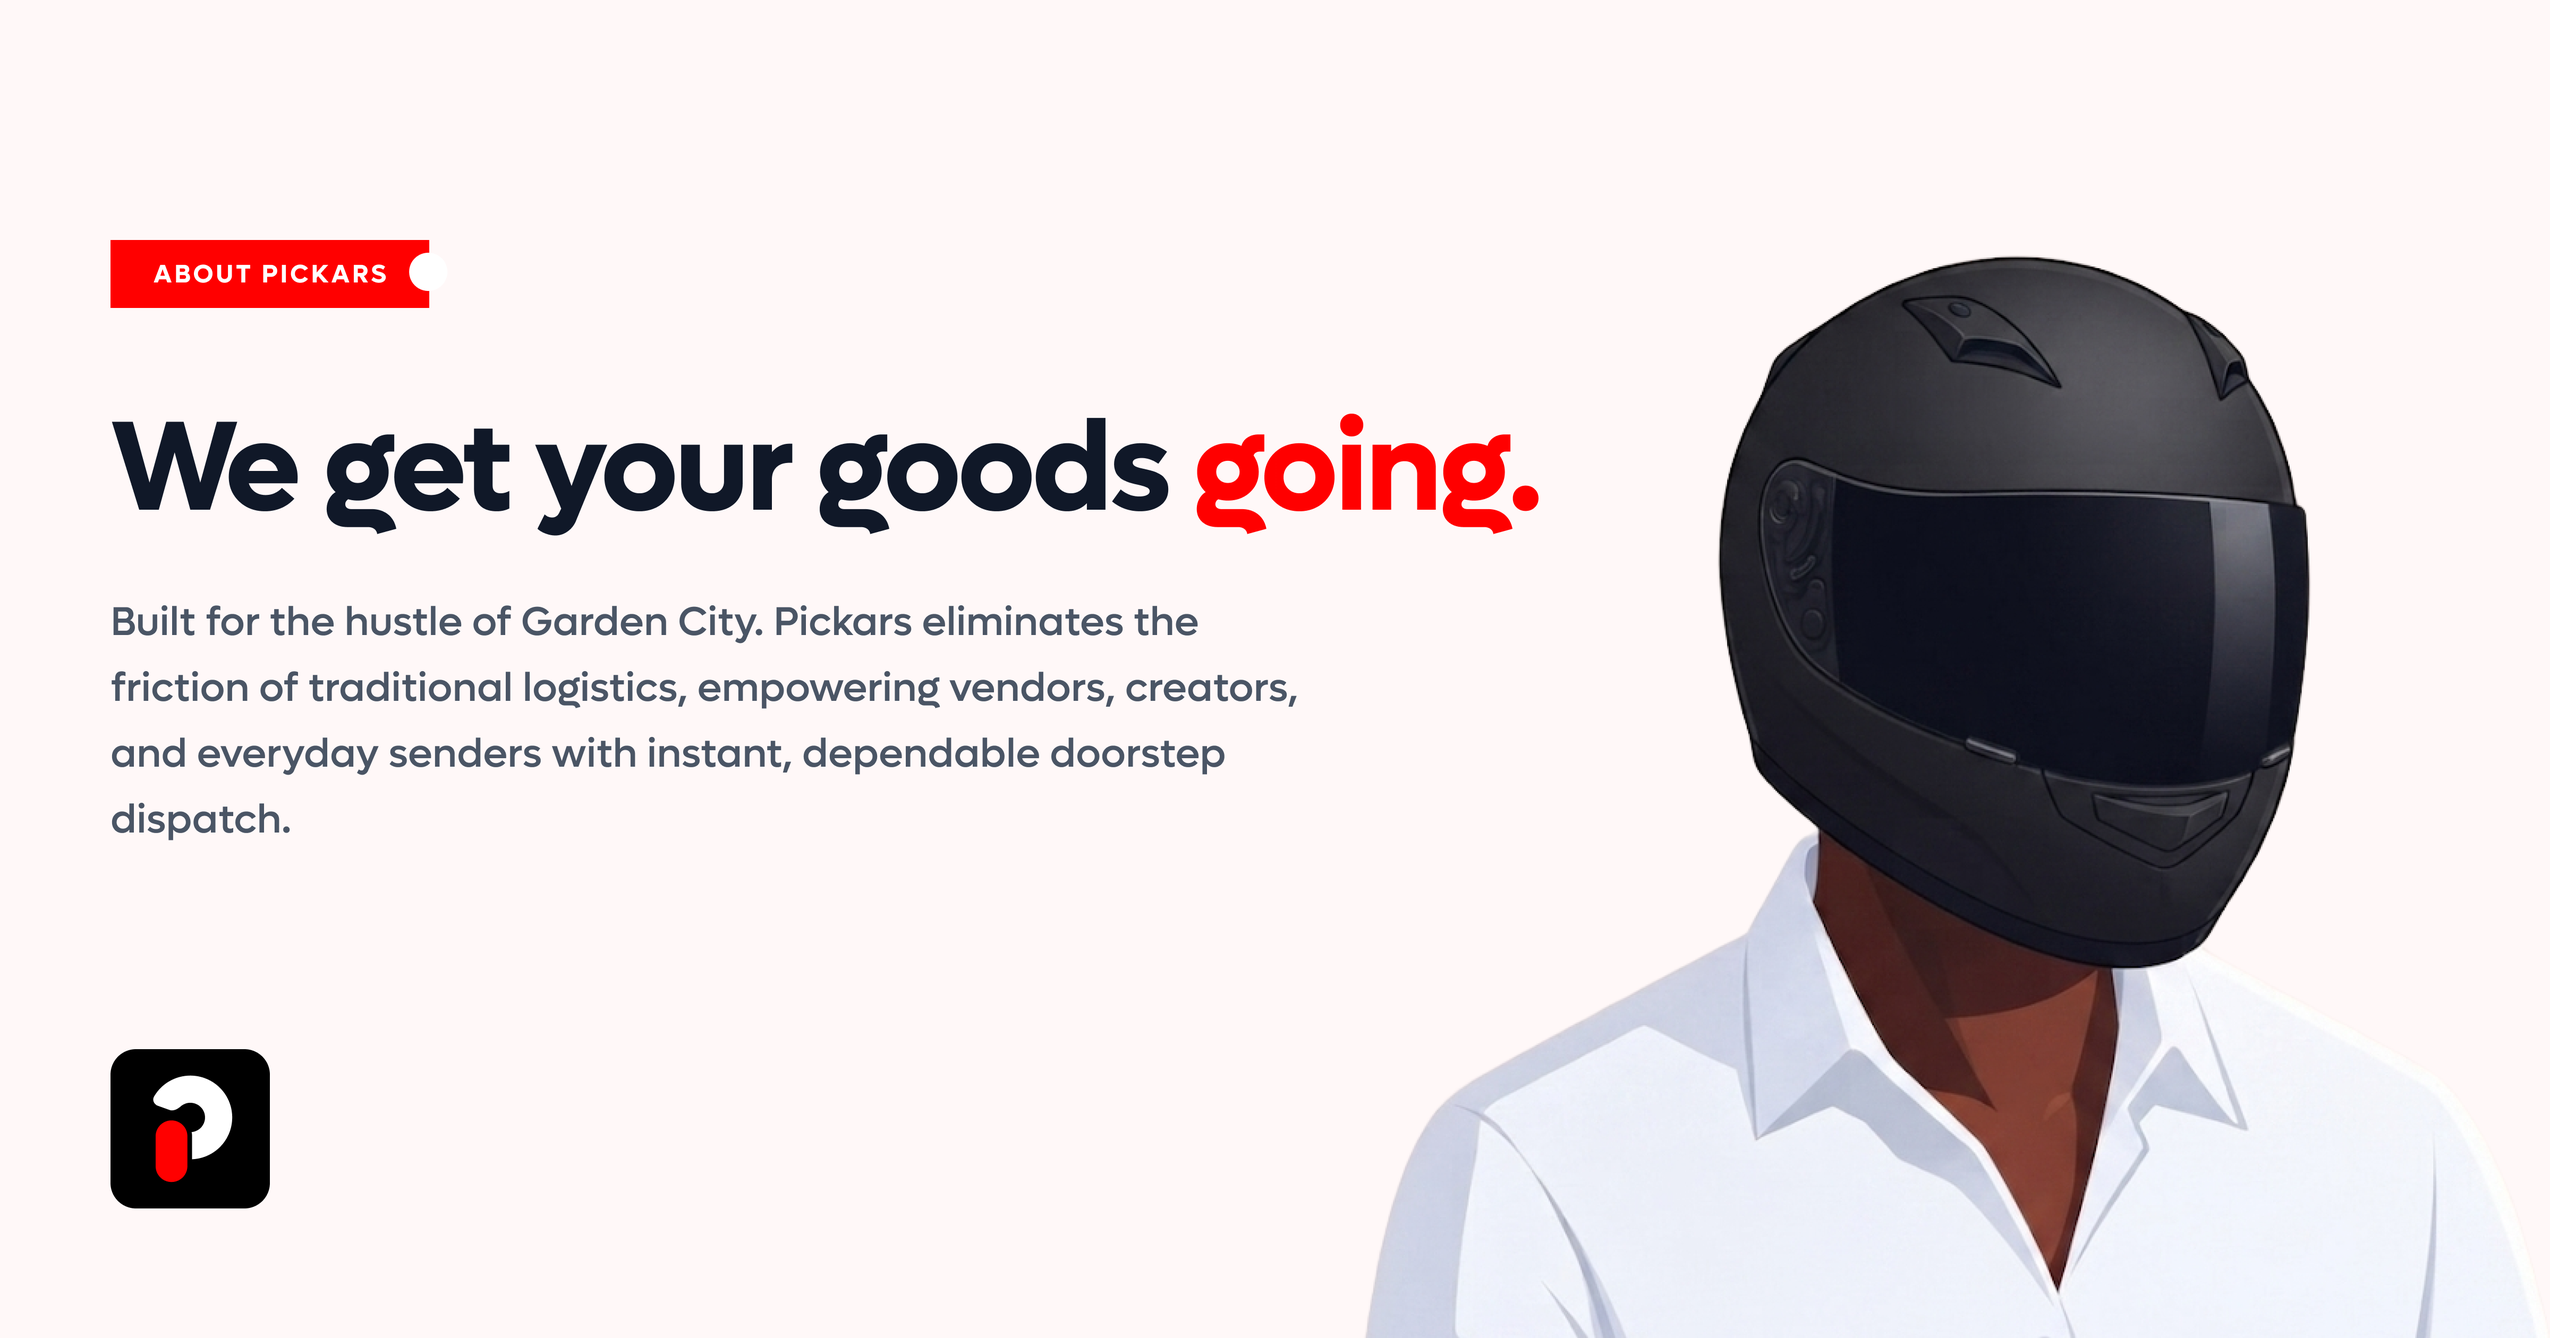
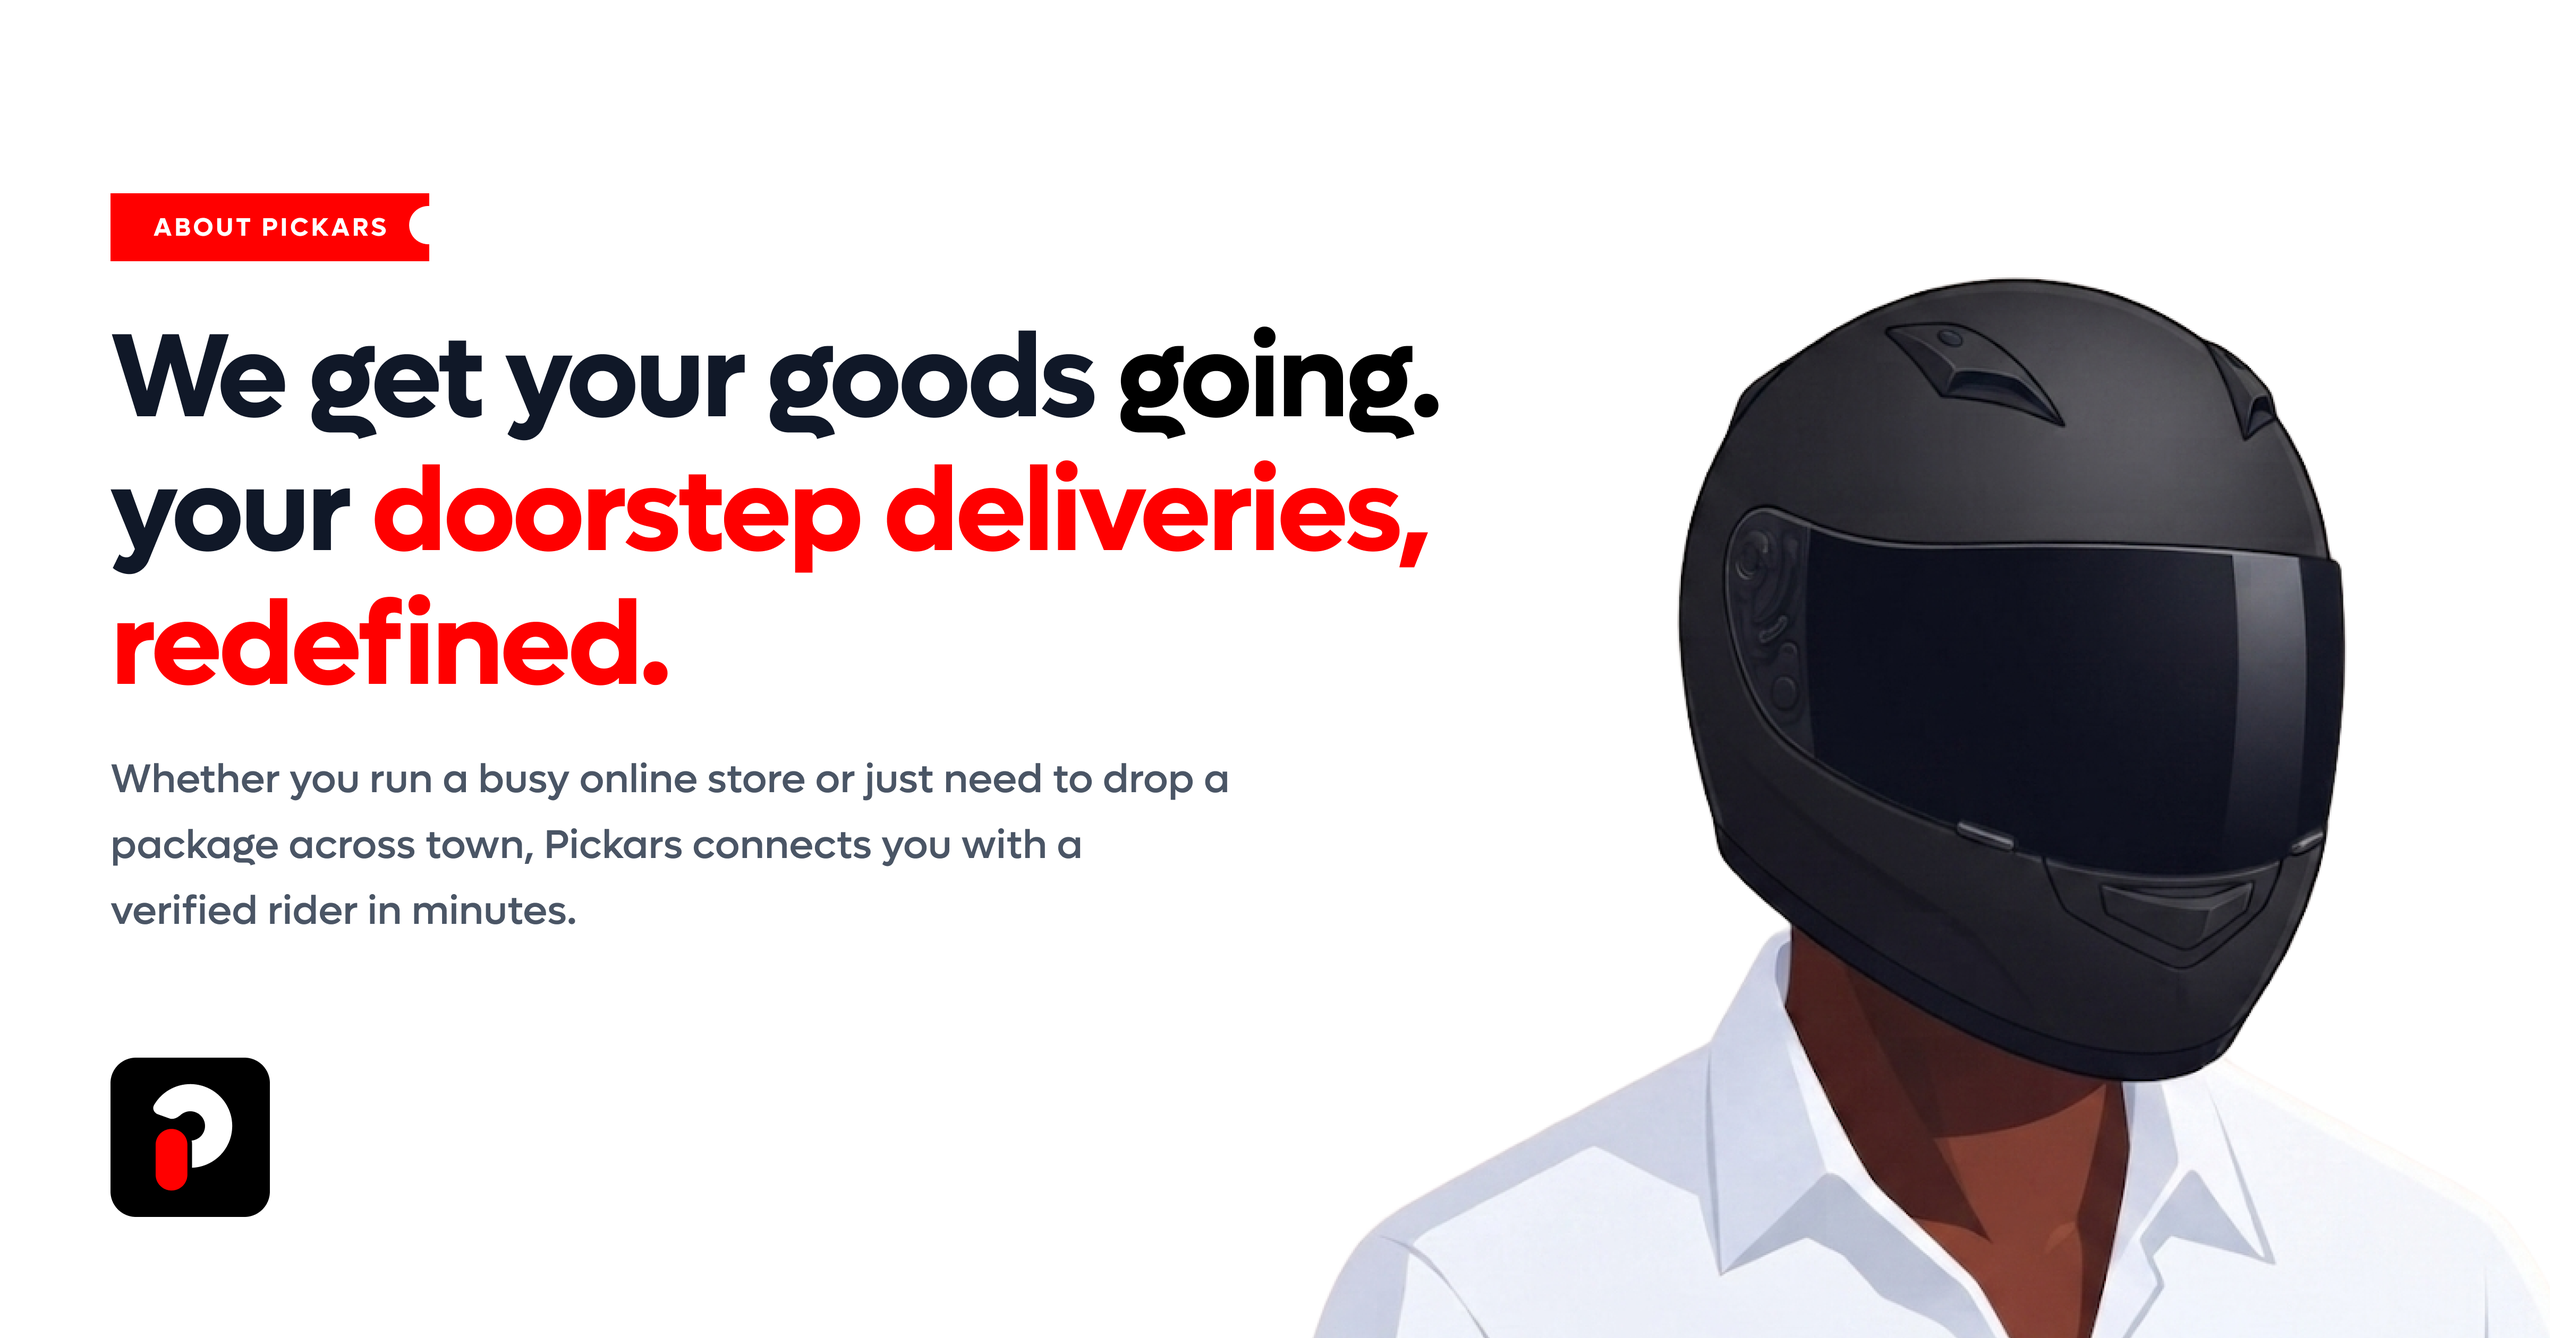
new updates

diff --git a/src/pages/Company.tsx b/src/pages/Company.tsx
@@ -20,7 +20,6 @@ const Company = () => {
 
   // Dynamic canonical URL matching active path
   const canonicalUrl = `https://www.pickars.com${location.pathname}`;
-  const ogImageUrl = "https://www.pickars.com/about-us.png";
 
   // Advanced AboutPage & Organization Schema Graph
   const companySchema = {
@@ -33,10 +32,6 @@ const Company = () => {
         name: "About Pickars | Our Company & Journey",
         description:
           "Learn about Pickars Courier Limited, our mission to revolutionize last-mile parcel delivery and dispatch rider networks across Port Harcourt and Nigeria.",
-        primaryImageOfPage: {
-          "@type": "ImageObject",
-          url: ogImageUrl,
-        },
         isPartOf: {
           "@type": "WebSite",
           "@id": "https://www.pickars.com/#website",
@@ -55,7 +50,7 @@ const Company = () => {
         url: "https://www.pickars.com",
         logo: {
           "@type": "ImageObject",
-          url: "https://www.pickars.com/box.png",
+          url: "https://www.pickars.com/about-us.png",
           width: 512,
           height: 512,
         },
@@ -81,7 +76,9 @@ const Company = () => {
       {/* Dynamic SEO Meta Data for the Company Page */}
       <Helmet>
         {/* Core SEO */}
-        <title>Our Company & Mission | Pickars</title>
+        <title>
+          Our Company & Mission | Pickars
+        </title>
         <meta
           name="description"
           content="Discover the Pickars journey. Building Port Harcourt's most reliable, tech-driven dispatch rider network and express parcel delivery ecosystem."
@@ -104,36 +101,32 @@ const Company = () => {
         <meta property="og:url" content={canonicalUrl} />
         <meta property="og:site_name" content="Pickars " />
         <meta property="og:locale" content="en_NG" />
-        <meta property="og:title" content="Our Company & Mission | Pickars" />
+        <meta
+          property="og:title"
+          content="Our Company & Mission | Pickars"
+        />
         <meta
           property="og:description"
           content="Discover the Pickars story. We are building the most trusted dispatch rider and urban parcel delivery network across Port Harcourt and Nigeria."
         />
-        <meta property="og:image" content={ogImageUrl} />
-        <meta property="og:image:secure_url" content={ogImageUrl} />
-        <meta property="og:image:type" content="image/png" />
+        <meta property="og:image" content="https://www.pickars.com/about-us.png" />
         <meta property="og:image:width" content="1200" />
         <meta property="og:image:height" content="630" />
-        <meta
-          property="og:image:alt"
-          content="Pickars About Us - Company & Mission"
-        />
 
         {/* Twitter (X) */}
         <meta name="twitter:card" content="summary_large_image" />
         <meta name="twitter:site" content="@pickars_app" />
         <meta name="twitter:creator" content="@pickars_app" />
         <meta name="twitter:url" content={canonicalUrl} />
-        <meta name="twitter:title" content="Our Company & Story | Pickars" />
+        <meta
+          name="twitter:title"
+          content="Our Company & Story | Pickars"
+        />
         <meta
           name="twitter:description"
           content="Discover the Pickars journey and our core mission of speed, reliability, and tech-driven dispatch solutions."
         />
-        <meta name="twitter:image" content={ogImageUrl} />
-        <meta
-          name="twitter:image:alt"
-          content="Pickars About Us - Company & Mission"
-        />
+        <meta name="twitter:image" content="https://www.pickars.com/about-us.png" />
 
         {/* Structured Data Graph */}
         <script type="application/ld+json">

diff --git a/index.html b/index.html
@@ -100,16 +100,16 @@
     <meta property="og:locale" content="en_NG" />
     <meta
       property="og:title"
-      content="Dispatch Riders in Port Harcourt | Same-Day Delivery | PICKARS"
+      content="Pickars: Your doorstep deliveries, redefined"
     />
     <meta
       property="og:description"
       content="Need a dispatch rider in Port Harcourt? Book fast, reliable bike couriers with PICKARS for same-day parcel & package delivery across GRA, Trans Amadi, Woji and all of Rivers State."
     />
-    <meta property="og:image" content="https://www.pickars.com/box.png" />
+    <meta property="og:image" content="https://www.pickars.com/about-us.png" />
     <meta
       property="og:image:secure_url"
-      content="https://www.pickars.com/box.png"
+      content="https://www.pickars.com/about-us.png"
     />
     <meta property="og:image:type" content="image/png" />
     <meta property="og:image:width" content="1200" />
@@ -133,7 +133,7 @@
       name="twitter:description"
       content="Book reliable dispatch riders near you in Port Harcourt. Fast same-day parcel delivery & bike courier service across Rivers State."
     />
-    <meta name="twitter:image" content="https://www.pickars.com/box.png" />
+    <meta name="twitter:image" content="https://www.pickars.com/about-us.png" />
 
     <!-- Structured Data (JSON-LD) -->
     <script type="application/ld+json">
@@ -175,7 +175,7 @@
             },
             "primaryImageOfPage": {
               "@type": "ImageObject",
-              "url": "https://www.pickars.com/box.png"
+              "url": "https://www.pickars.com/about-us.png"
             }
           },
           {
@@ -186,7 +186,7 @@
             "url": "https://www.pickars.com",
             "logo": {
               "@type": "ImageObject",
-              "url": "https://www.pickars.com/box.png",
+              "url": "https://www.pickars.com/about-us.png",
               "width": 512,
               "height": 512
             },
@@ -243,8 +243,8 @@
             "parentOrganization": {
               "@id": "https://www.pickars.com/#organization"
             },
-            "image": "https://www.pickars.com/box.png",
-            "logo": "https://www.pickars.com/box.png",
+            "image": "https://www.pickars.com/about-us.png",
+            "logo": "https://www.pickars.com/about-us.png",
             "description": "Professional dispatch riders and bike courier service in Port Harcourt. Same-day parcel delivery, express package pickup and last-mile logistics across Rivers State. Available in GRA, Trans Amadi, Woji, Rumuokoro, Mile 1, Rumuola and more.",
             "url": "https://www.pickars.com",
             "telephone": "+2349164860591",

diff --git a/src/pages/TrackingPage/TrackingPageMain.tsx b/src/pages/TrackingPage/TrackingPageMain.tsx
@@ -12,7 +12,6 @@ const TrackingPageMain: React.FC = () => {
 
   // Dynamic canonical URL matching active path
   const canonicalUrl = `https://www.pickars.com${location.pathname}`;
-  const ogImageUrl = "https://www.pickars.com/track.png";
 
   // Top scroll progress spring animation
   const { scrollYProgress } = useScroll();
@@ -39,10 +38,6 @@ const TrackingPageMain: React.FC = () => {
         name: "Live Dispatch Rider & Parcel Tracking | Pickars Port Harcourt",
         description:
           "Track your dispatch rider and parcel status live across Port Harcourt with Pickars. Enter your tracking ID for real-time GPS updates.",
-        primaryImageOfPage: {
-          "@type": "ImageObject",
-          url: ogImageUrl,
-        },
         isPartOf: {
           "@type": "WebSite",
           "@id": "https://www.pickars.com/#website",
@@ -142,15 +137,9 @@ const TrackingPageMain: React.FC = () => {
           property="og:description"
           content="Track your package and dispatch rider live in Port Harcourt. Get instant updates on pickup, transit status, and delivery completion."
         />
-        <meta property="og:image" content={ogImageUrl} />
-        <meta property="og:image:secure_url" content={ogImageUrl} />
-        <meta property="og:image:type" content="image/png" />
+        <meta property="og:image" content="https://www.pickars.com/about-us.png" />
         <meta property="og:image:width" content="1200" />
         <meta property="og:image:height" content="630" />
-        <meta
-          property="og:image:alt"
-          content="Pickars Live Dispatch & Parcel Tracking"
-        />
 
         {/* Twitter Card */}
         <meta name="twitter:card" content="summary_large_image" />
@@ -165,11 +154,7 @@ const TrackingPageMain: React.FC = () => {
           name="twitter:description"
           content="Monitor your rider's live location and parcel status across Port Harcourt in real-time."
         />
-        <meta name="twitter:image" content={ogImageUrl} />
-        <meta
-          name="twitter:image:alt"
-          content="Pickars Live Dispatch & Parcel Tracking"
-        />
+        <meta name="twitter:image" content="https://www.pickars.com/about-us.png" />
 
         {/* Structured Data Graph */}
         <script type="application/ld+json">

diff --git a/src/pages/AppFeatures/AppFeatures.tsx b/src/pages/AppFeatures/AppFeatures.tsx
@@ -19,7 +19,6 @@ const AppFeatures: React.FC = () => {
 
   // Dynamic canonical URL targeting
   const canonicalUrl = `https://www.pickars.com${location.pathname}`;
-  const ogImageUrl = "https://www.pickars.com/app-features.png";
 
   // SoftwareApplication Structured Data
   const appSchema = {
@@ -28,7 +27,6 @@ const AppFeatures: React.FC = () => {
     name: "Pickars Mobile Delivery App",
     operatingSystem: "Android, iOS",
     applicationCategory: "LogisticsApplication",
-    image: ogImageUrl,
     offers: {
       "@type": "Offer",
       price: "0",
@@ -110,15 +108,9 @@ const AppFeatures: React.FC = () => {
           property="og:description"
           content="Track dispatch riders in real-time, schedule express package pickups, and enjoy instant order alerts with the Pickars app."
         />
-        <meta property="og:image" content={ogImageUrl} />
-        <meta property="og:image:secure_url" content={ogImageUrl} />
-        <meta property="og:image:type" content="image/png" />
+        <meta property="og:image" content="https://www.pickars.com/about-us.png" />
         <meta property="og:image:width" content="1200" />
         <meta property="og:image:height" content="630" />
-        <meta
-          property="og:image:alt"
-          content="Pickars App Features & Tracking"
-        />
 
         {/* Twitter Card */}
         <meta name="twitter:card" content="summary_large_image" />
@@ -133,11 +125,7 @@ const AppFeatures: React.FC = () => {
           name="twitter:description"
           content="Experience fast dispatch booking, real-time rider tracking, and seamless parcel deliveries with the Pickars app."
         />
-        <meta name="twitter:image" content={ogImageUrl} />
-        <meta
-          name="twitter:image:alt"
-          content="Pickars App Features & Tracking"
-        />
+        <meta name="twitter:image" content="https://www.pickars.com/about-us.png" />
 
         {/* JSON-LD Structured Data Schema */}
         <script type="application/ld+json">{JSON.stringify(appSchema)}</script>

diff --git a/src/pages/Home/Home.tsx b/src/pages/Home/Home.tsx
@@ -152,7 +152,7 @@ const Home = () => {
     provider: {
       "@type": "LocalBusiness",
       name: "Pickars Logistics",
-      image: "https://www.pickars.com/box.png",
+      image: "https://www.pickars.com/about-us.png",
       telephone: "+2349164860591",
       priceRange: "₦₦",
       address: {
@@ -250,7 +250,7 @@ const Home = () => {
         <meta property="og:locale" content="en_NG" />
         <meta property="og:title" content={title} />
         <meta property="og:description" content={description} />
-        <meta property="og:image" content="https://www.pickars.com/box.png" />
+        <meta property="og:image" content="https://www.pickars.com/about-us.png" />
         <meta property="og:image:width" content="1200" />
         <meta property="og:image:height" content="630" />
 
@@ -261,7 +261,7 @@ const Home = () => {
         <meta name="twitter:url" content={canonicalUrl} />
         <meta name="twitter:title" content={title} />
         <meta name="twitter:description" content={description} />
-        <meta name="twitter:image" content="https://www.pickars.com/box.png" />
+        <meta name="twitter:image" content="https://www.pickars.com/about-us.png" />
 
         {/* Structured Data */}
         <script type="application/ld+json">

diff --git a/src/pages/HelpCenter/HelpCenter.tsx b/src/pages/HelpCenter/HelpCenter.tsx
@@ -343,7 +343,7 @@ export default function HelpCenterPage() {
           property="og:description"
           content="Get instant answers on booking, payments, tracking, and customer support for dispatch rider services in Port Harcourt."
         />
-        <meta property="og:image" content="https://www.pickars.com/box.png" />
+        <meta property="og:image" content="https://www.pickars.com/about-us.png" />
         <meta property="og:image:width" content="1200" />
         <meta property="og:image:height" content="630" />
 
@@ -360,7 +360,7 @@ export default function HelpCenterPage() {
           name="twitter:description"
           content="Find instant answers on booking, payments, tracking, and rider onboarding."
         />
-        <meta name="twitter:image" content="https://www.pickars.com/box.png" />
+        <meta name="twitter:image" content="https://www.pickars.com/about-us.png" />
 
         {/* Dynamic JSON-LD Structured Data Schema */}
         <script type="application/ld+json">{JSON.stringify(faqSchema)}</script>

diff --git a/src/pages/FAQ/FAQsPage.tsx b/src/pages/FAQ/FAQsPage.tsx
@@ -14,7 +14,7 @@ const FAQsPage = () => {
   });
 
   const canonicalUrl = `https://www.pickars.com${location.pathname}`;
-  const ogImageUrl = "https://www.pickars.com/faq.png";
+  const ogImageUrl = "https://www.pickars.com/about-us.png";
 
   const faqSchema = {
     "@context": "https://schema.org",
